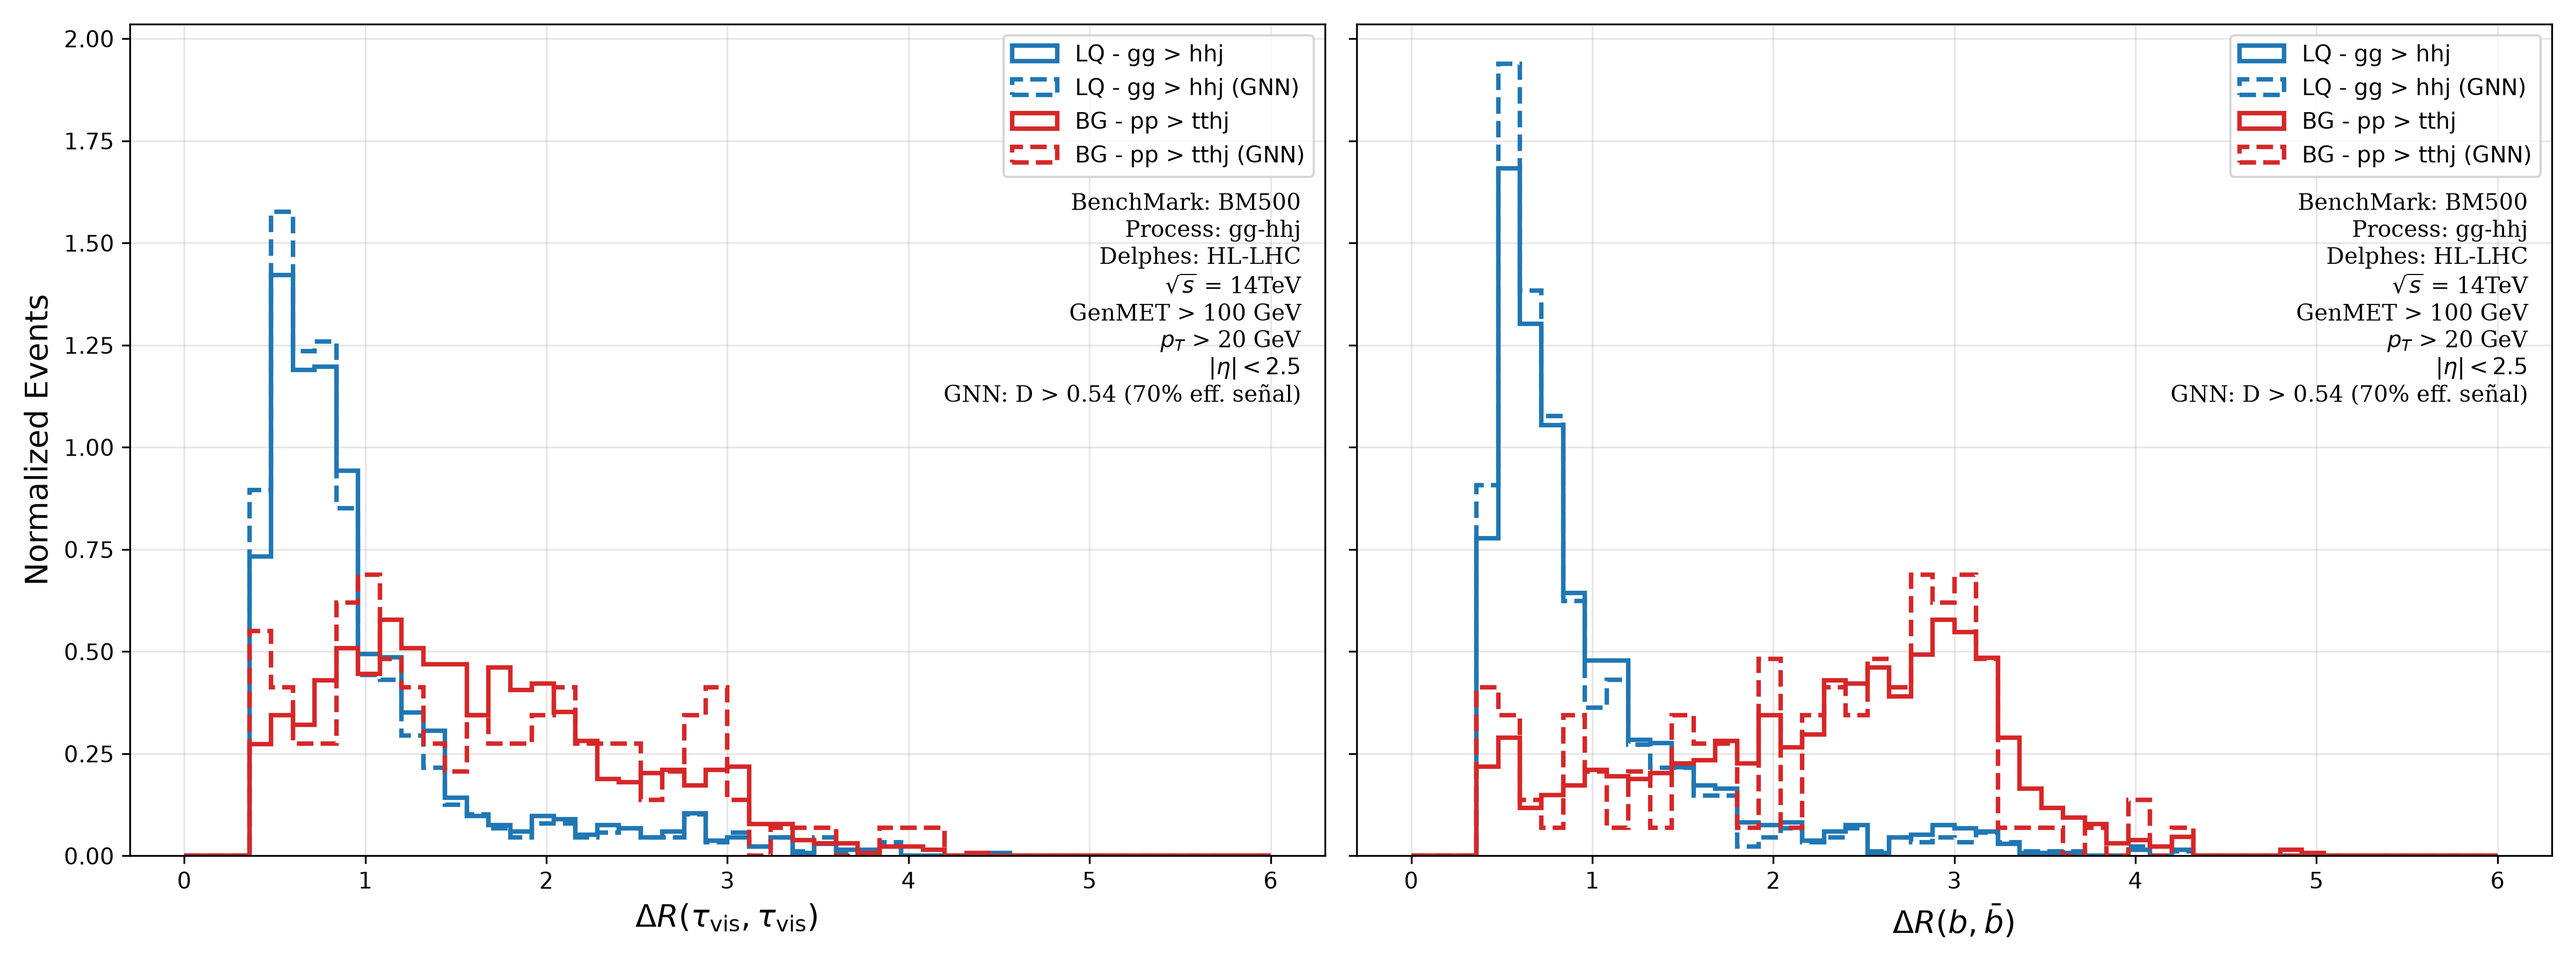
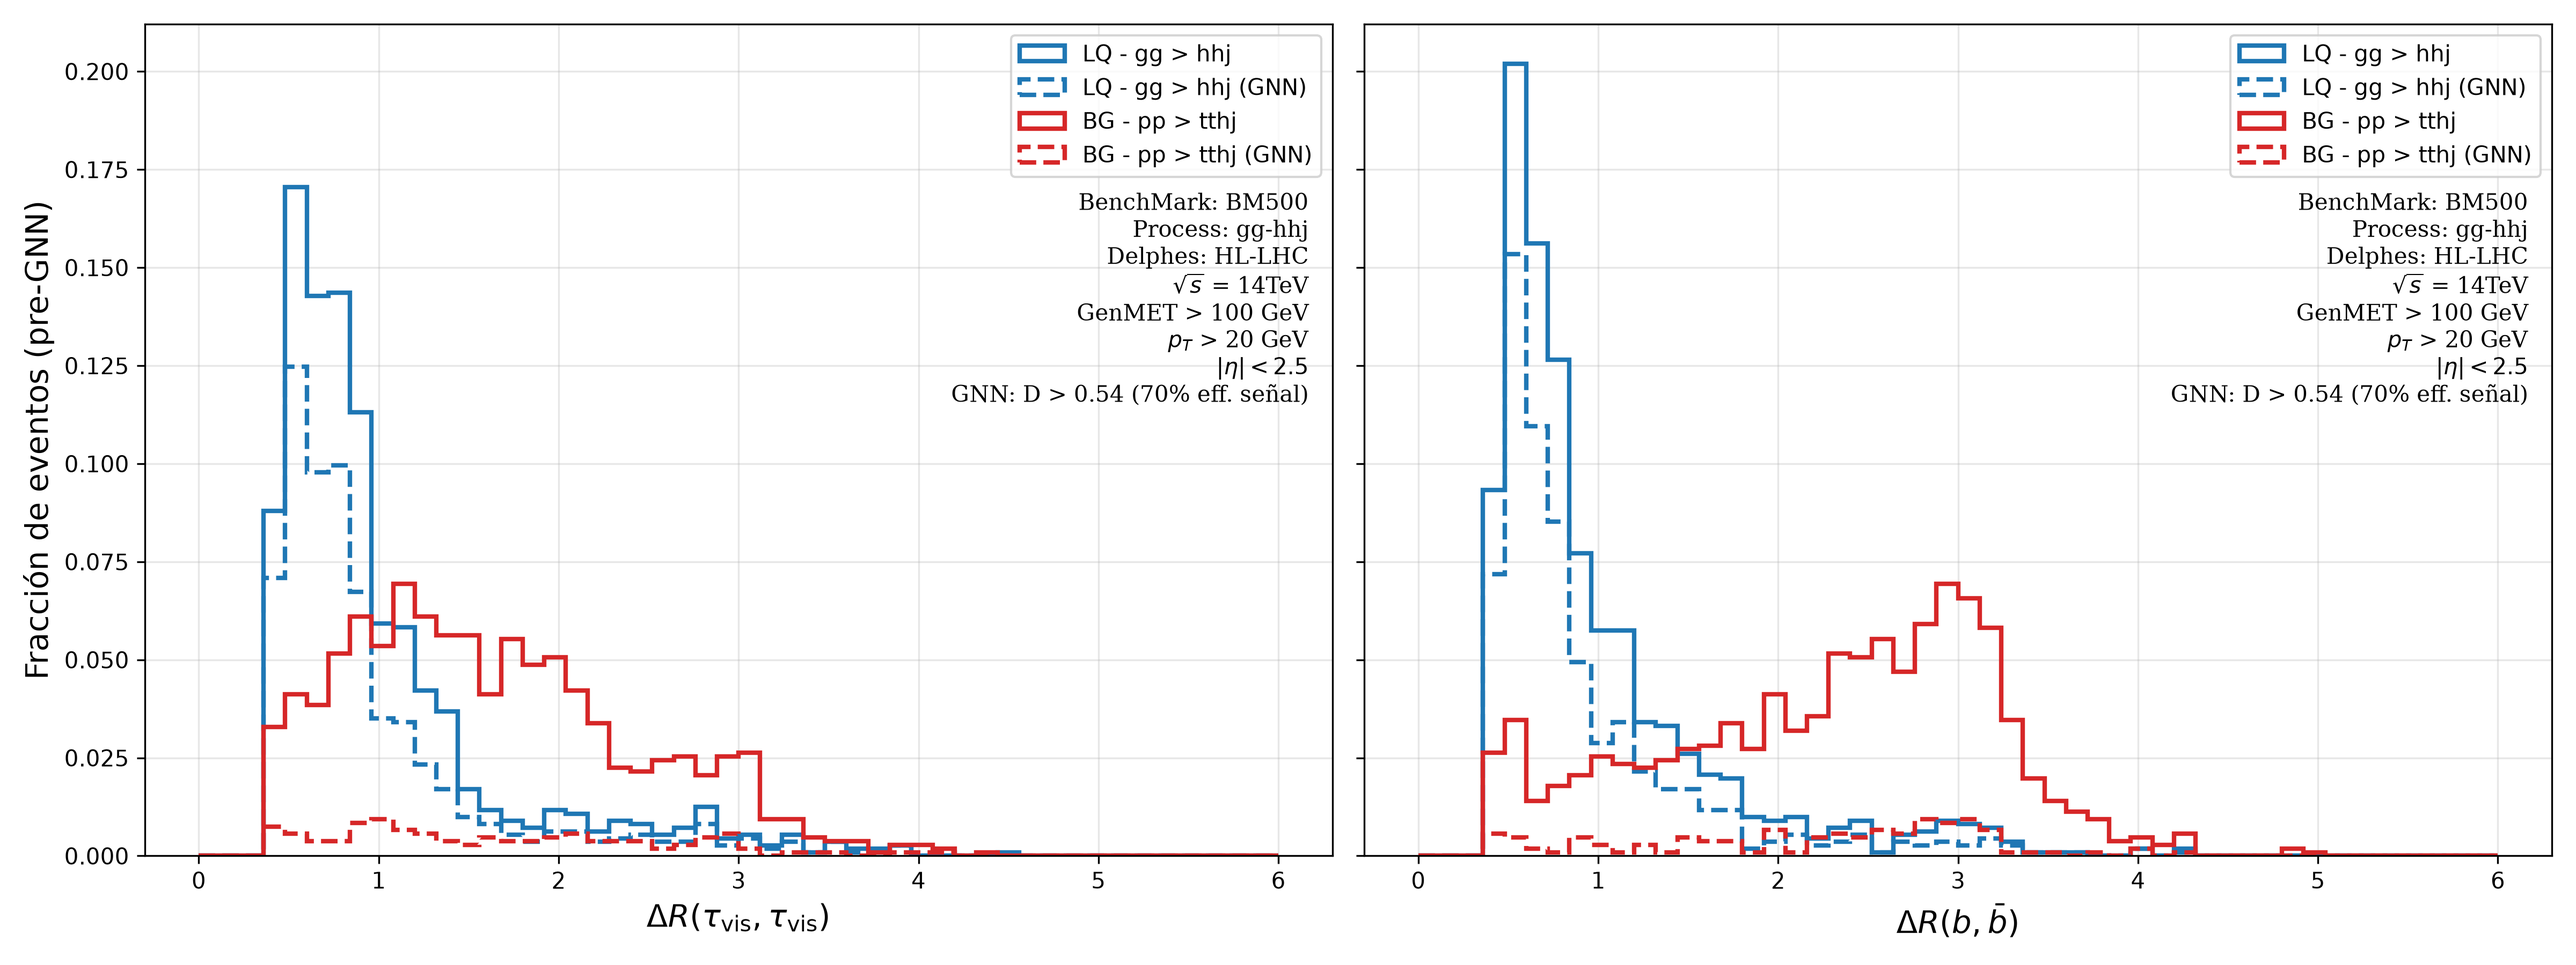
plots de comparacion pre and post GNN corregidos

diff --git a/RecAnalysis/ROOT_analyzer.py b/RecAnalysis/ROOT_analyzer.py
@@ -17,8 +17,8 @@ vec.register_awkward()
 # Parameters
 # ============================================================================
 
-# saving_path = '/home/gbarco/DiHiggsProject/RecAnalysis/'
-saving_path = 'RecAnalysis/'
+saving_path = '/home/gbarco/DiHiggsProject/RecAnalysis/'
+# saving_path = 'RecAnalysis/'
 
 # MET Selection
 
@@ -39,14 +39,14 @@ process = "gg-hhj"
 
 # Paths
 
-rutas = {
-    "Prueba": "/home/usuario/Madgraph/projects/gg_hh-LQs/plusjet/output_ggHH_bbtata_BP1_80_*_delphes_events.root",
-}
-
 # rutas = {
-#     "LQ - gg > hhj": "/mnt/R5/gbarco/BM500_gghhj_1800k/ROOTs/output_ggHH_bbtata_BP1_81_*_delphes_events.root",
-#     "BG - pp > tthj": "/mnt/R5/gbarco/pp_tthj_1800k/ROOTs/output_pp_tthj_h-tata_1800k_104_*_delphes_events.root", 
+#     "Prueba": "/home/usuario/Madgraph/projects/gg_hh-LQs/plusjet/output_ggHH_bbtata_BP1_80_*_delphes_events.root",
 # }
+
+rutas = {
+    "LQ - gg > hhj": "/mnt/R5/gbarco/BM500_gghhj_1800k/ROOTs/output_ggHH_bbtata_BP1_81_*_delphes_events.root",
+    "BG - pp > tthj": "/mnt/R5/gbarco/pp_tthj_1800k/ROOTs/output_pp_tthj_h-tata_1800k_104_*_delphes_events.root", 
+}
 
 # ============================================================================
 # Data Loading

diff --git a/RecAnalysis/Functions.py b/RecAnalysis/Functions.py
@@ -98,7 +98,8 @@ def vectors_buildup(data):
     tracks = ak.zip({"pt": data["Track.PT"], "eta": data["Track.Eta"],
                     "phi": data["Track.Phi"],
                     "mass": ak.zeros_like(data["Track.PT"]),
-                    "charge": data["Track.Charge"],
+                    "charge": data["Track.Charge"] if "Track.Charge" in data.fields
+                    else ak.zeros_like(data["Track.PT"]),
                     "d0":  data["Track.D0"],
                     "dz":  data["Track.DZ"]},
                     with_name="Momentum4D")
